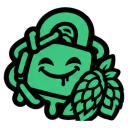
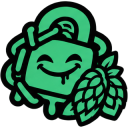
fix(трей): значок резался ровной сеткой и терял края
Значки на листе стоят с разными промежутками, а резал я делением ширины на
четыре. Верхнему ряду отрезало пятнадцать пикселей снизу, нижнему — восемь
сверху: со стороны значок выглядел целым, просто обрубленным по краю.

Теперь границы ищутся по пустым полосам между значками. Заодно это переживёт
новый лист: художник переставит значки или добавит строку, и резать будет
по ним, а не по арифметике — а если строк окажется не три, скрипт скажет об
этом вслух, а не нарежет молча мусор.

Поле вокруг убрано. Трей показывает значок в шестнадцати пикселях и сам
отбивает соседей друг от друга; три процента поля там — три процента и без
того крошечной картинки, потраченных на пустоту. Занято стало 128 из 128 по
ширине вместо 120.

diff --git a/tools/make_tray_icons.py b/tools/make_tray_icons.py
@@ -40,19 +40,72 @@ ROWS = ("", "-update", "-alert")
 # без мыла — нет.
 SIZE = 128
 
-# Поле вокруг значка, долей от размера. Впритык к краю он в трее выглядит
-# крупнее соседних и обрезанным.
-MARGIN = 0.03
+# Поля нет нарочно. Трей показывает значок в шестнадцати пикселях и сам
+# отбивает соседей друг от друга; каждый процент поля — процент и без того
+# крошечной картинки, потраченный на пустоту.
+MARGIN = 0.0
+
+# Пиксель считается закрашенным начиная с этой прозрачности. Края сглажены,
+# и у самой кромки альфа падает почти до нуля — порог должен быть низким,
+# иначе обводка обрезается вместе с фоном.
+OPAQUE = 8
+
+
+def bands(filled: list[bool]) -> list[tuple[int, int]]:
+    """Разбивает строку признаков на полосы подряд идущих закрашенных."""
+    found: list[tuple[int, int]] = []
+    start: int | None = None
+    for index, flag in enumerate(filled):
+        if flag and start is None:
+            start = index
+        elif not flag and start is not None:
+            found.append((start, index - 1))
+            start = None
+    if start is not None:
+        found.append((start, len(filled) - 1))
+    return found
+
+
+def grid(image: QImage) -> tuple[list[tuple[int, int]], list[tuple[int, int]]]:
+    """Находит настоящие границы клеток — по пустым полосам между значками.
+
+    Ровную сетку считать нельзя, и это выяснилось не сразу: значки на листе
+    стоят с разными промежутками, и деление ширины на четыре отрезало
+    у верхнего ряда пятнадцать пикселей снизу, а у нижнего восемь сверху.
+    Со стороны значок выглядел целым — просто чуть обрубленным по краю.
+
+    Заодно это переживёт новый лист: художник переставит значки или добавит
+    строку, и резать по-прежнему будет по ним, а не по арифметике.
+    """
+    width, height = image.width(), image.height()
+
+    # Шаг в два пикселя: полоса между значками заведомо шире, а проход по
+    # полутора миллионам точек в лоб занимает минуты.
+    rows = [
+        any(image.pixelColor(x, y).alpha() > OPAQUE for x in range(0, width, 2))
+        for y in range(height)
+    ]
+    columns = [
+        any(image.pixelColor(x, y).alpha() > OPAQUE for y in range(0, height, 2))
+        for x in range(width)
+    ]
+
+    return bands(rows), bands(columns)
 
 
 def content_box(image: QImage, rect: QRect) -> QRect:
-    """Находит в клетке прямоугольник, где есть хоть что-то непрозрачное."""
+    """Обрезает клетку по тому, что в ней нарисовано.
+
+    Полосы уже отделили значки друг от друга, но внутри своей полосы значок
+    всё ещё стоит не по центру: без этой обрезки они прыгали бы в трее на
+    пиксель-другой друг относительно друга.
+    """
     left, top = rect.right(), rect.bottom()
     right, bottom = rect.left(), rect.top()
 
     for y in range(rect.top(), rect.bottom() + 1):
         for x in range(rect.left(), rect.right() + 1):
-            if image.pixelColor(x, y).alpha() > 8:
+            if image.pixelColor(x, y).alpha() > OPAQUE:
                 left, right = min(left, x), max(right, x)
                 top, bottom = min(top, y), max(bottom, y)
 
@@ -62,7 +115,12 @@ def content_box(image: QImage, rect: QRect) -> QRect:
 
 
 def square(image: QImage, box: QRect) -> QImage:
-    """Кладёт вырезанное в квадрат, не растягивая и не обрезая."""
+    """Кладёт вырезанное в квадрат, не растягивая и не обрезая.
+
+    Растянуть до квадрата было бы заманчиво — значок занял бы всю клетку, —
+    но значки разной ширины поплыли бы каждый по-своему, и один и тот же
+    рисунок в соседних состояниях выглядел бы по-разному.
+    """
     side = max(box.width(), box.height())
     pad = int(side * MARGIN)
     side += pad * 2
@@ -103,12 +161,18 @@ def main() -> int:
 
     TARGET.mkdir(parents=True, exist_ok=True)
 
-    cell_width = sheet.width() // len(COLUMNS)
-    cell_height = sheet.height() // len(ROWS)
+    row_bands, column_bands = grid(sheet)
+    if len(row_bands) != len(ROWS) or len(column_bands) != len(COLUMNS):
+        raise SystemExit(
+            f"на листе {len(row_bands)} строк и {len(column_bands)} столбцов, "
+            f"а ожидается {len(ROWS)} и {len(COLUMNS)}"
+        )
 
     for row, suffix in enumerate(ROWS):
+        top, bottom = row_bands[row]
         for column, state in enumerate(COLUMNS):
-            cell = QRect(column * cell_width, row * cell_height, cell_width, cell_height)
+            left, right = column_bands[column]
+            cell = QRect(left, top, right - left + 1, bottom - top + 1)
             icon = square(sheet, content_box(sheet, cell))
 
             path = TARGET / f"{state}{suffix}.png"
